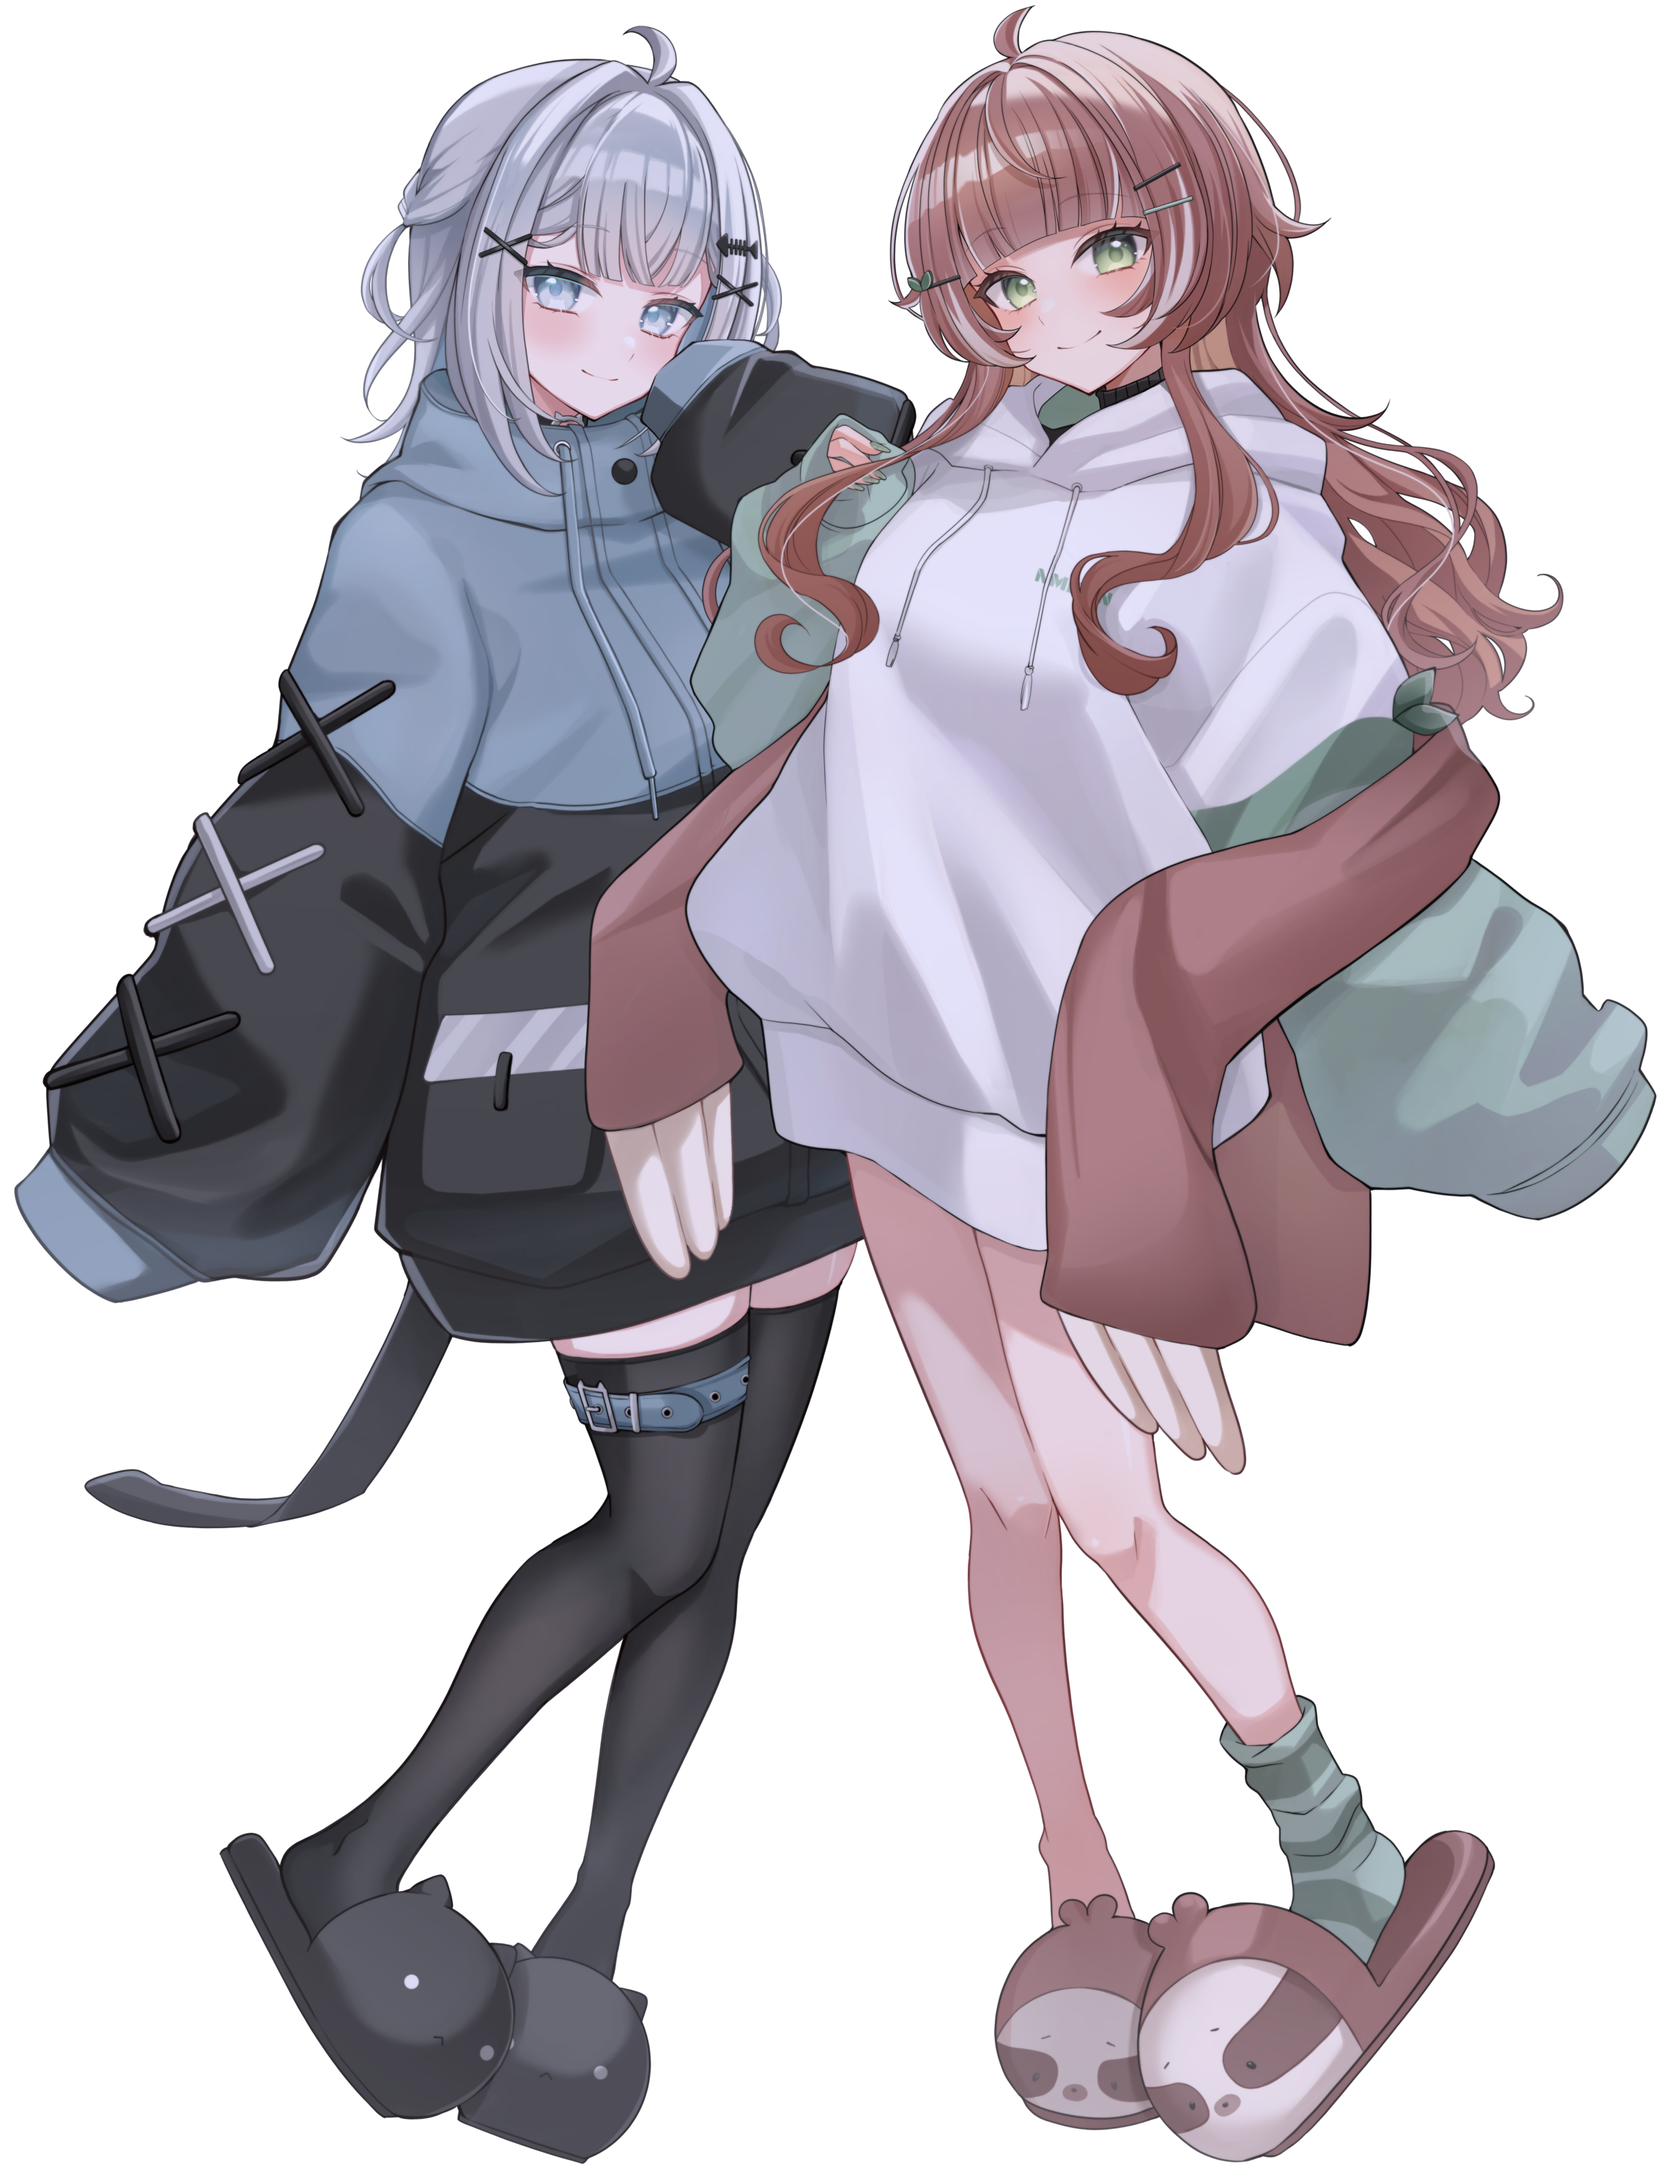
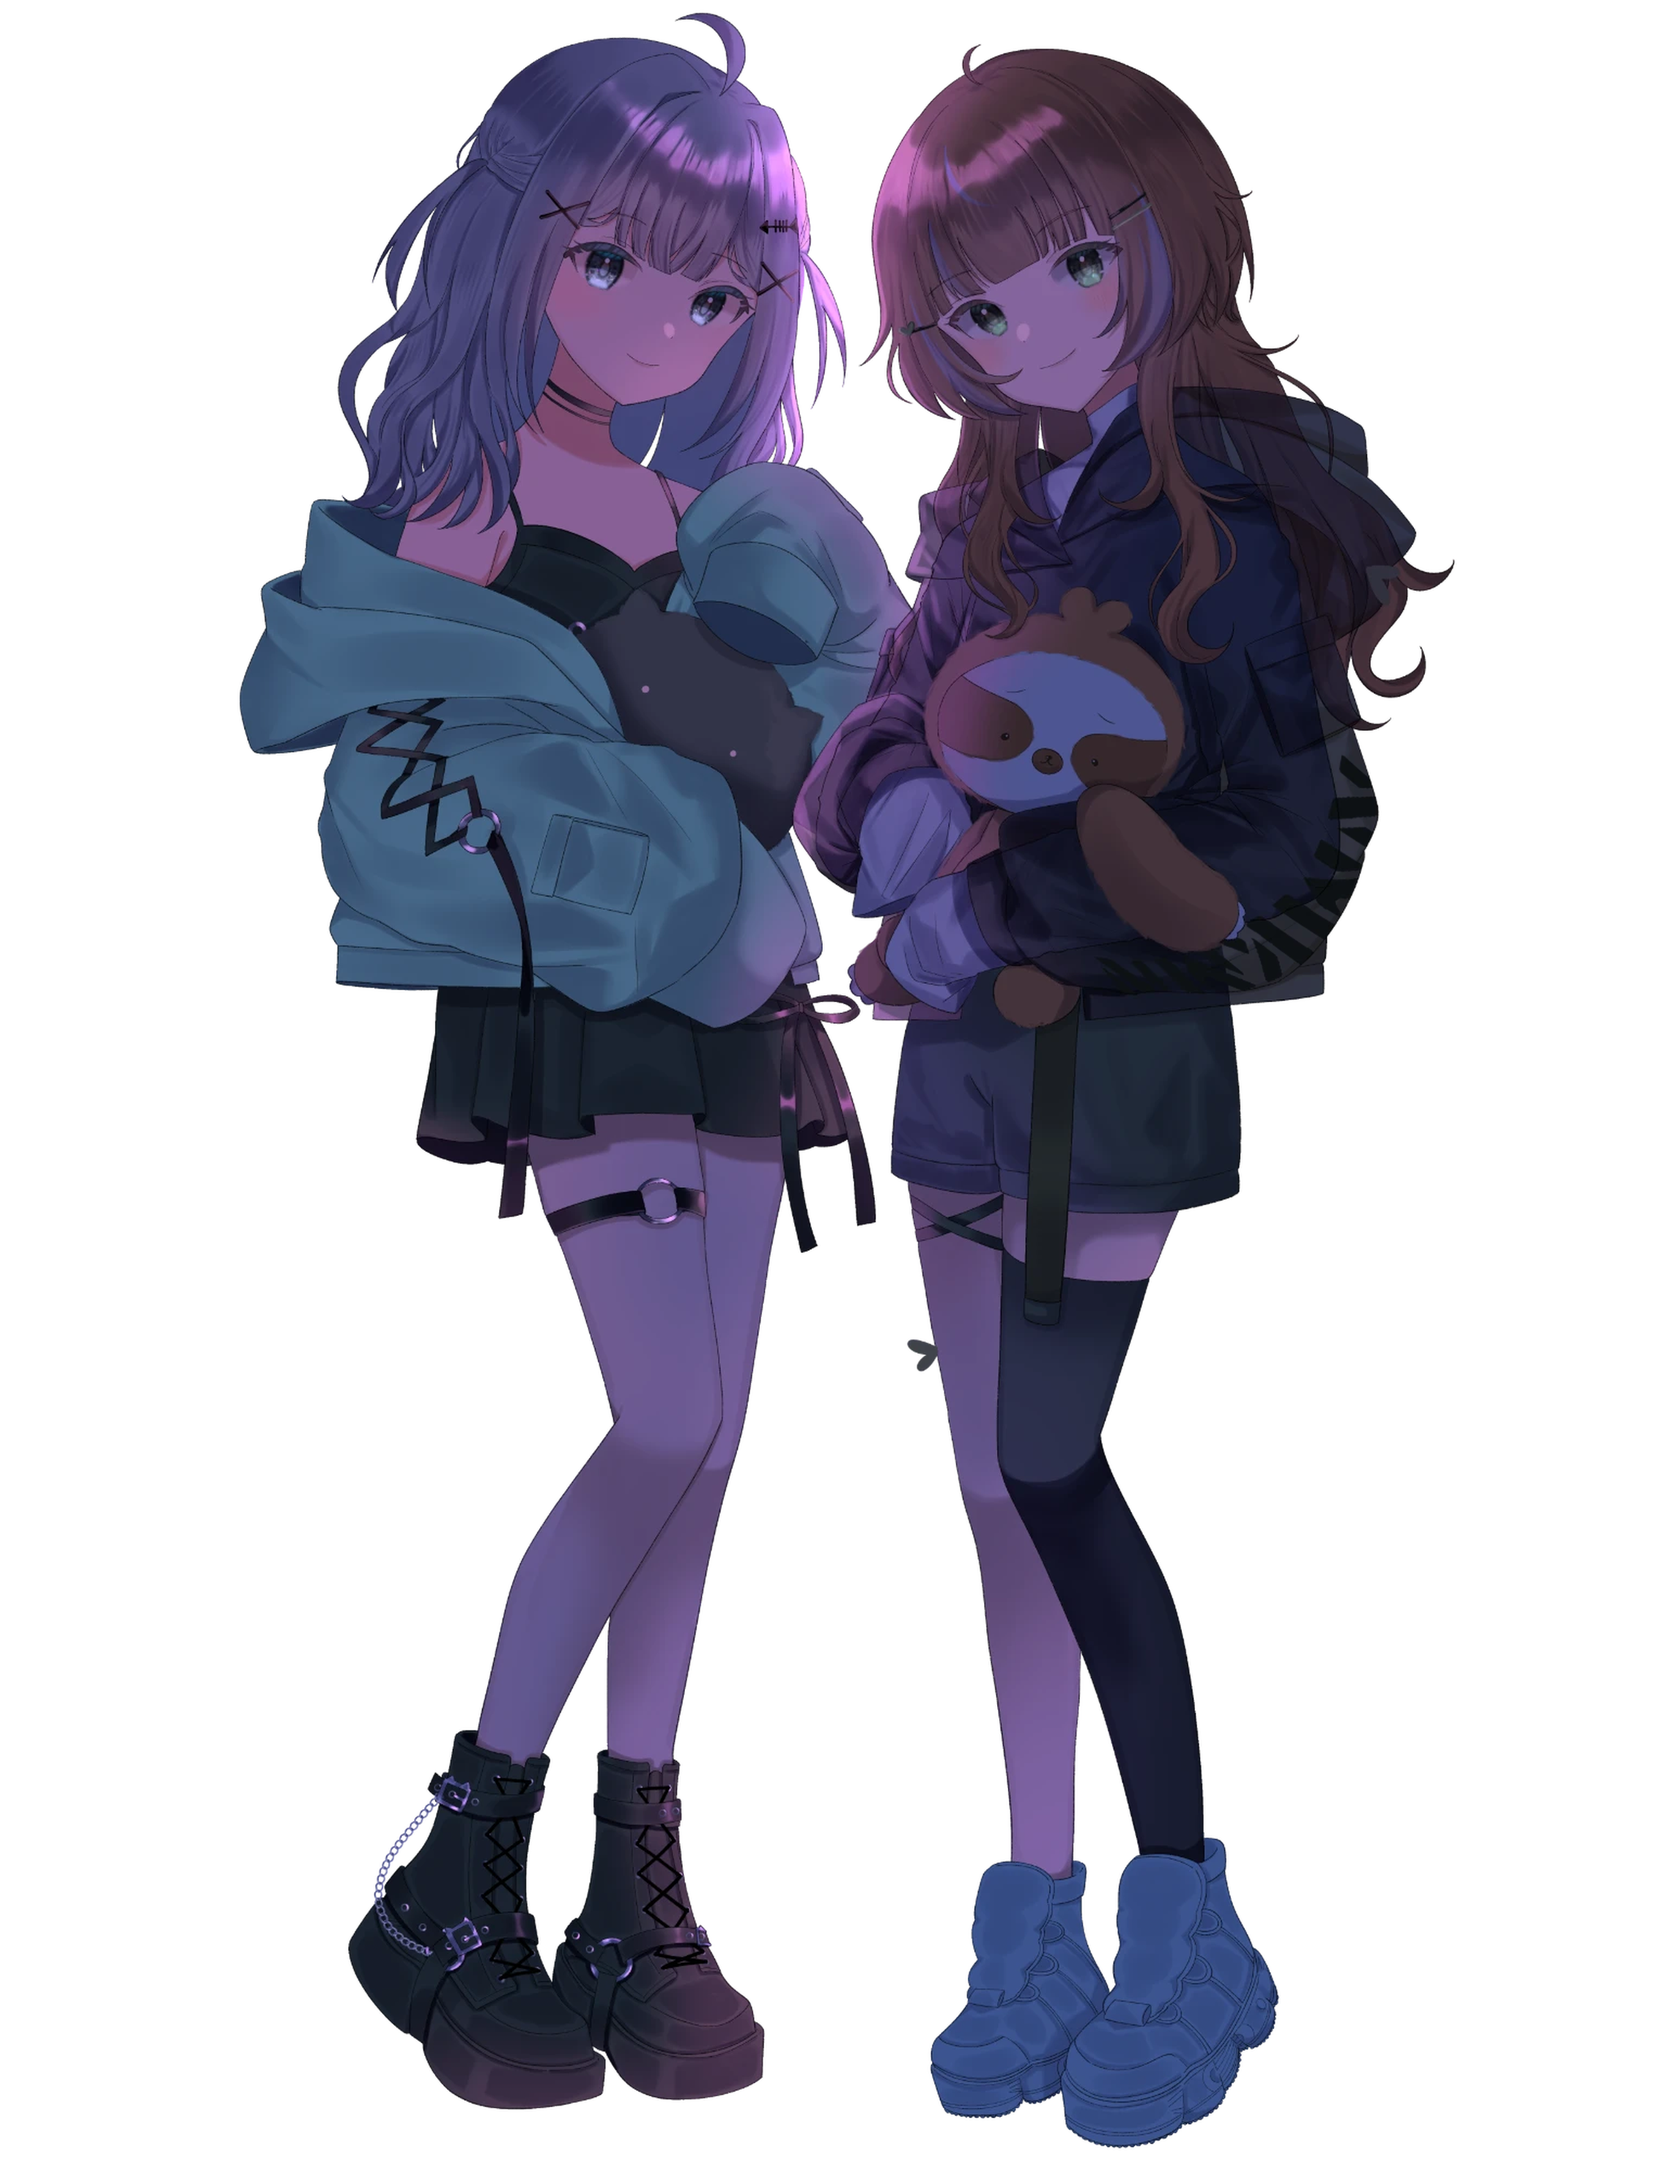
Trim punctuation, fix SP hero line break, swap in temp illustrations
Remove trailing periods from the debut date and Ui's bio lines, force
the SP hero tagline to wrap after "帰ってこられる" for a clean 2-line
layout, and temporarily swap in placeholder hero/member artwork.

diff --git a/index.html b/index.html
@@ -119,7 +119,7 @@ window.scrollTo(0, 0);
   </div>
 
   <div class="hero-inner">
-    <p class="hero-tagline">ここは、いつでも帰ってこられる"もうひとつの日常"</p>
+    <p class="hero-tagline">ここは、いつでも帰ってこられる<br class="sp-break">"もうひとつの日常"</p>
   </div>
 
   <div class="hero-social">
@@ -188,7 +188,7 @@ window.scrollTo(0, 0);
   <div class="section-inner center">
     <h2 class="section-title starred">PROFILE</h2>
     <p class="section-lead reveal">リアル幼馴染のVsingerユニット『Lazzy』</p>
-    <p class="section-sublead reveal reveal-d1">2023年7月10日にデビュー。</p>
+    <p class="section-sublead reveal reveal-d1">2023年7月10日にデビュー</p>
   </div>
 
   <!-- ================= メンバー（お二人） ================= -->
@@ -200,9 +200,9 @@ window.scrollTo(0, 0);
       <div class="member-info">
         <h3 class="member-name">音琴うい</h3>
         <p class="member-desc">
-          歌うこと大好きなぐ〜たら気まぐれ女の子。<br>
-          将来はお布団と結婚するらしい…。<br>
-          猫派だが実は犬を飼っている。
+          歌うこと大好きなぐ〜たら気まぐれ女の子<br>
+          将来はお布団と結婚するらしい…<br>
+          猫派だが実は犬を飼っている
         </p>
         <div class="member-actions">
           <div class="member-sns">

diff --git a/css/style.css b/css/style.css
@@ -1127,7 +1127,7 @@ body.content-revealed .hero-inner {
 
   .hero-social { left: 16px; bottom: 16px; }
 
-  .hero-inner { top: 150px; max-width: 84vw; }
+  .hero-inner { top: 150px; width: 84vw; max-width: 84vw; }
   .hero-tagline { font-size: 19px; line-height: 1.7; }
 
   .section-lead { white-space: normal; }
